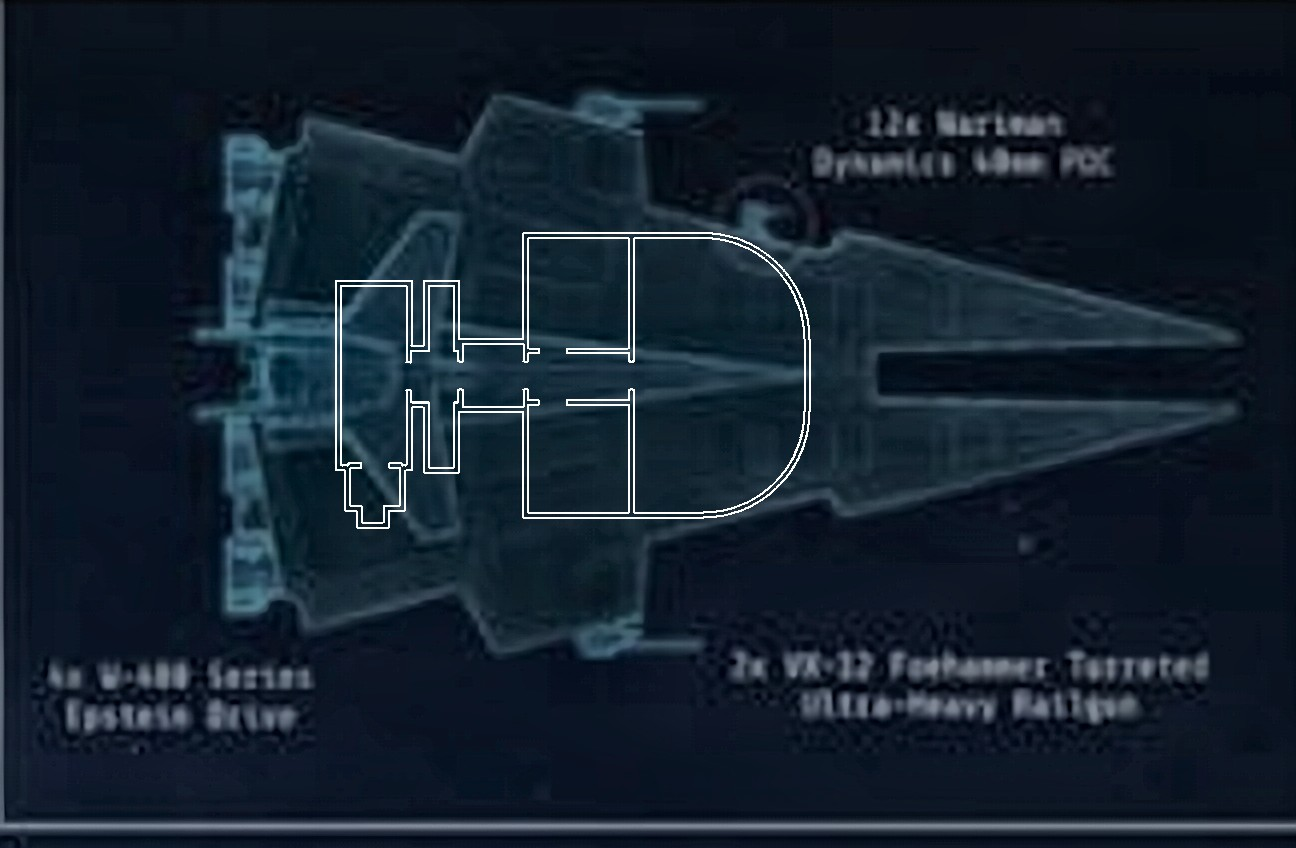
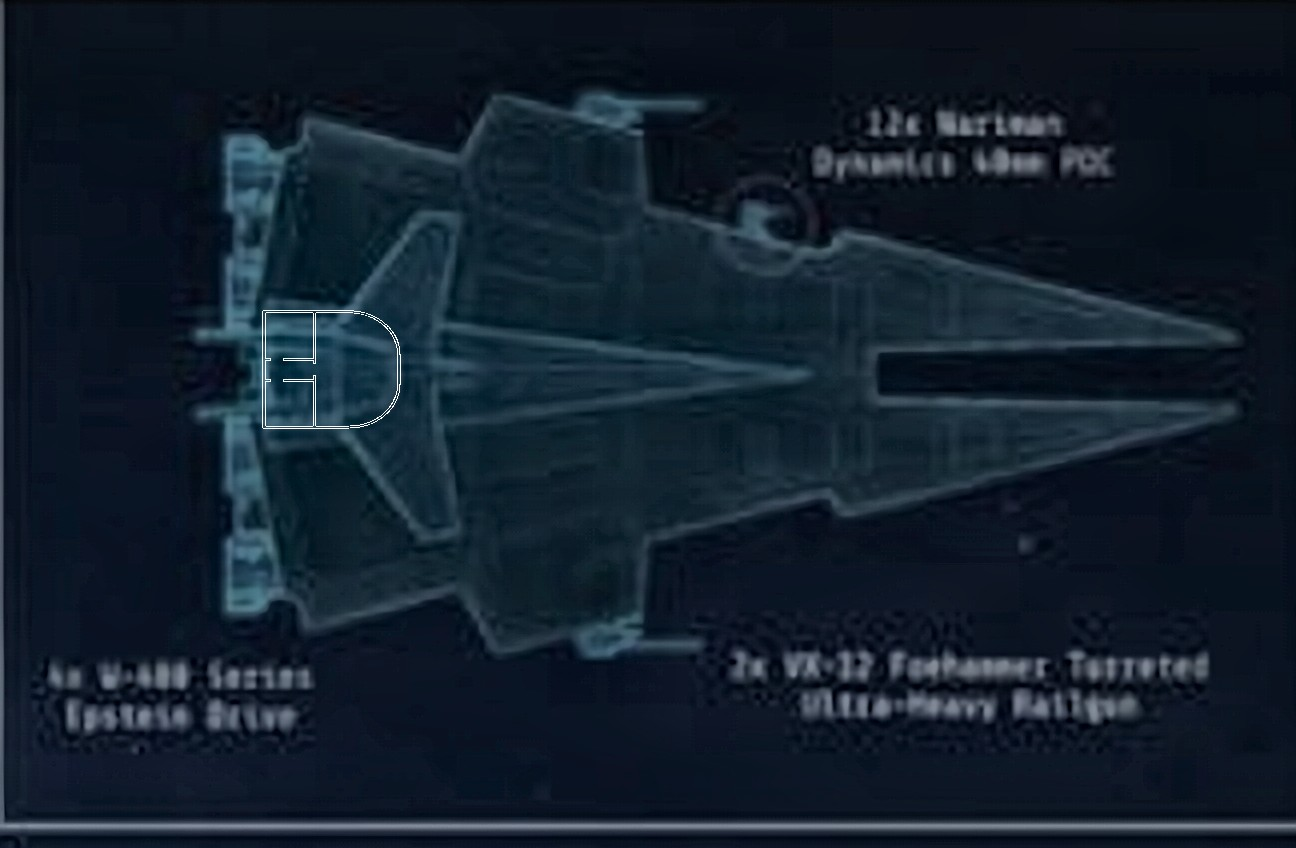
v13.28: Tianjin command tower, square and round section only, fitted on the exterior
Claude-Session: https://claude.ai/code/session_01SinQW9aeLHqCBjq9e21Gyo

diff --git a/web_shell.html b/web_shell.html
@@ -4,8 +4,8 @@
 <meta charset="utf-8">
 <meta name="viewport" content="width=device-width,initial-scale=1,maximum-scale=1,user-scalable=no,viewport-fit=cover">
 <meta name="theme-color" content="#f6f9fc">
-<meta name="hl-version" content="v13.27">
-<title>Homelancer Digital v13.27</title>
+<meta name="hl-version" content="v13.28">
+<title>Homelancer Digital v13.28</title>
 <style>
 *{box-sizing:border-box}
 html,body{margin:0;width:100%;height:100%;background:#f6f9fc;color:#0e2f5a;font:16px system-ui,sans-serif;overflow:hidden;touch-action:none}

diff --git a/tools/trace/ship_tianjin_03/eng/build_command_tower.py b/tools/trace/ship_tianjin_03/eng/build_command_tower.py
@@ -17,7 +17,9 @@ cic = cic.intersection(box(475, 130, 1100, 750))
 aft = unary_union([box(60, 235, 215, 645), box(215, 380, 330, 505), box(255, 235, 320, 380), box(255, 505, 320, 650),
                    box(330, 365, 475, 515)])
 ladder = unary_union([box(80, 640, 200, 735), box(105, 735, 165, 772)])     # asym: ladder down to the main deck
-floor = unary_union([cic, aft, ladder])
+# owner (11 Nov): the room is only the square + round section (the CIC block), which sits in the small square-and-
+# round block at the stern centre of the exterior; the aft cross section and the ladder tab are left out
+floor = cic
 walls = floor.buffer(T / 2, join_style=2).difference(floor.buffer(-T / 2, join_style=2))
 
 def wall(p0, p1, doors=()):
@@ -30,9 +32,7 @@ def wall(p0, p1, doors=()):
 inner = [
     wall((710, 130), (710, 750), doors=[310]),                       # bridge bulkhead, door on the centre line
     wall((475, 385), (710, 385), doors=[60]), wall((475, 500), (710, 500), doors=[60]),   # side rooms off the hall
-    wall((215, 380), (215, 505), doors=[62.5]),                      # aft hall to the spine
-    wall((330, 365), (330, 515), doors=[75]), wall((475, 365), (475, 515), doors=[75]),   # connector doors
-    wall((80, 640), (200, 640), doors=[60]),                         # ladder room
+    wall((475, 385), (475, 500), doors=[57.5]),                      # the way in, aft, on the centre line
 ]
 walls = unary_union([walls] + inner)
 

diff --git a/docs/V1.2_BUILD.md b/docs/V1.2_BUILD.md
@@ -2163,3 +2163,6 @@ the camera automatically does a zoom to that section ... helmet, body, lower bod
 
 ## v13.27 — UPP Tianjin command tower room (no game change)
 - Owner: "That's the command tower that goes here, let's make that room." `ship_tianjin_03/eng/build_command_tower.py`: the upper deck (Pressured Sealed CIC) measured on the x4 upscale and drawn clean: aft hall, spine with two arms, connector, two side rooms off the centre hall, bridge bulkhead, rounded bridge bow; mirror symmetric; ladder room down to the main deck. tower_plan.png / _on_map.jpg / .json; tower_on_exterior.jpg shows it on the stern tower (fit approximate).
+
+## v13.28 — Tianjin command tower: only the square + round section (no game change)
+- Owner: "the room only for this square plus round section" (circled the small square-and-round block at the stern centre of the exterior). The tower room is now just the CIC block (two side rooms, centre hall, bridge bulkhead, rounded bridge) with its way in aft on the centre line, fitted into that block on the exterior (tower_on_exterior*.jpg).
